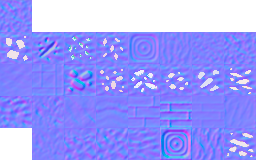
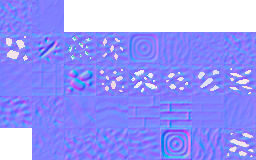
Added Acaster block (bedrock)

Changed region(s): [[0.125, 0.0, 0.25, 0.2188]]

diff --git a/Assets/Scripts/WorldGeneration/StructureGroup.cs b/Assets/Scripts/WorldGeneration/StructureGroup.cs
@@ -193,14 +193,12 @@ public static class StructureGroup
         greaterBonesFormation.Add(new StructSpawn(StructureCode.BigUpBone, 1, 0.03f, 0, -1, true, -10));
         greaterBonesFormation.Add(new StructSpawn(StructureCode.BigCrossBone, 1, 0.03f, 0, -1, true, -10));
 
-        /*
         greaterBonesFormation.Add(new StructSpawn(StructureCode.LittleBone1, 8, 0.4f, 10, -1, true, 0));
         greaterBonesFormation.Add(new StructSpawn(StructureCode.LittleBone2, 8, 0.4f, 10, -1, true, 0));
         greaterBonesFormation.Add(new StructSpawn(StructureCode.BigFossil1, 3, 0.3f, 12, -1, true, 0));
         greaterBonesFormation.Add(new StructSpawn(StructureCode.BigFossil2, 3, 0.3f, 12, -1, true, 0));
         greaterBonesFormation.Add(new StructSpawn(StructureCode.BigUpBone, 3, 0.3f, 14, -1, true, 0));
         greaterBonesFormation.Add(new StructSpawn(StructureCode.BigCrossBone, 3, 0.3f, 15, -1, true, 0));
-        */
     }
 }
 

diff --git a/Assets/Scripts/Items/Acasterblock_Item.cs b/Assets/Scripts/Items/Acasterblock_Item.cs
@@ -1,0 +1,25 @@
+using System.Collections;
+using System.Collections.Generic;
+
+public class Acasterblock_Item : Item, IPlaceable
+{
+	public ushort placeableBlockID {get; set;}
+
+	public Acasterblock_Item(){
+		this.SetName("Acaster Rock Block");
+		this.SetDescription("The rock guarding the deepest parts of the world");
+		this.SetID(ItemID.ACASTERBLOCK);
+		this.SetIconID(11, 0);
+		this.SetStackSize(50);
+		this.SetPrice(0);
+		this.SetPriceVar(0);
+		this.SetAspects(new Dictionary<ThaumicAspect, byte>(){{ThaumicAspect.Tutamen, 20}, {ThaumicAspect.Terra, 5}});
+		this.SetTags(new List<ItemTag>(){ItemTag.Placeable, ItemTag.Stone, ItemTag.Forbidden});
+		this.SetDurability(false);
+		this.placeableBlockID = (ushort)BlockID.ACASTER;
+	}
+
+	public override int Use(){
+		return this.placeableBlockID;
+	}
+}

diff --git a/Assets/Scripts/Blocks.cs b/Assets/Scripts/Blocks.cs
@@ -5,7 +5,7 @@ using UnityEngine;
 
 public abstract class Blocks
 {
-	public static readonly int blockCount = 35;
+	public static readonly int blockCount = 36;
 	public static readonly int pixelSize = 32;
 	public static readonly int atlasSizeX = 8;
 	public static readonly int atlasSizeY = 5;
@@ -112,6 +112,8 @@ public abstract class Blocks
 				return new Lava_Block();
 			case 34:
 				return new HellMarble_Block();
+			case 35:
+				return new Acaster_Block();
 
 			default:
 				return new Air_Block();
@@ -231,7 +233,7 @@ public abstract class Blocks
     		return 0;
 
     	if(this.flags != null){
-	    	if(this.flags.Contains(BlockFlags.IMMUNE))
+	    	if(this.flags.Contains(BlockFlags.IMMUNE) || this.flags.Contains(BlockFlags.UNBREAKABLE))
 	    		return 0;
     	}
 

diff --git a/Assets/Scripts/WorldGeneration/Burst/GenerateHellChunkJob.cs b/Assets/Scripts/WorldGeneration/Burst/GenerateHellChunkJob.cs
@@ -130,14 +130,14 @@ public struct GenerateHellChunkJob: IJob{
     }
 
     public void AddBedrockLayer(){
-        ushort bedrock = (ushort)BlockID.STONE; // Needs to set it to bedrock once block is added
+        ushort acaster = (ushort)BlockID.ACASTER; // Needs to set it to bedrock once block is added
         int index;
 
         for(int x=0; x < Chunk.chunkWidth; x++){
             for(int z=0; z < Chunk.chunkWidth; z++){
                 index = x*Chunk.chunkWidth*Chunk.chunkDepth+z;
 
-                blockData[index] = bedrock;
+                blockData[index] = acaster;
                 stateData[index] = 0;
                 hpData[index] = ushort.MaxValue;
             }

diff --git a/Assets/Scripts/Blocks/Acaster_Block.cs b/Assets/Scripts/Blocks/Acaster_Block.cs
@@ -1,0 +1,22 @@
+using System.Collections;
+using System.Collections.Generic;
+using UnityEngine;
+
+public class Acaster_Block : Blocks
+{
+	public Acaster_Block(){
+		this.name = "Acaster Rock";
+		this.solid = true;
+		this.transparent = 0;
+		this.invisible = false;
+		this.liquid = false;
+		this.affectLight = true;
+
+		this.tileTop = 33;
+		this.tileSide = 33;
+		this.tileBottom = 33;
+
+		this.maxHP = ushort.MaxValue;
+		this.flags = new HashSet<BlockFlags>(){BlockFlags.IMMUNE};
+	}
+}

diff --git a/Assets/Scripts/WorldGeneration/BiomeHandler.cs b/Assets/Scripts/WorldGeneration/BiomeHandler.cs
@@ -94,7 +94,7 @@ public class BiomeHandler
 			new List<StructureGroupID>(){});
 
 		Biome deepCliff = new Biome("Deep Cliff", BiomeCode.DEEP_CLIFF, BiomeType.OCEAN, ChunkDepthID.HELL,
-			(ushort)BlockID.STONE,
+			(ushort)BlockID.ACASTER,
 			new List<StructureGroupID>(){});
 
 		Biome hellHighlands= new Biome("Hell Highlands", BiomeCode.HELL_HIGHLANDS, BiomeType.PEAK, ChunkDepthID.HELL,

diff --git a/Assets/Scripts/Item.cs b/Assets/Scripts/Item.cs
@@ -109,6 +109,9 @@ public abstract class Item
 				return new Lavablock_Item();
 			case ItemID.HELLMARBLEBLOCK:
 				return new HellMarbleblock_Item();
+			case ItemID.ACASTERBLOCK:
+				return new Acasterblock_Item();
+
 			default:
 				return null;
 		}

diff --git a/Assets/Scripts/ItemID.cs b/Assets/Scripts/ItemID.cs
@@ -25,5 +25,6 @@ public enum ItemID : ushort {
     GRAVELBLOCK,
     MOONSTONEBLOCK,
     LAVABLOCK,
-    HELLMARBLEBLOCK
+    HELLMARBLEBLOCK,
+    ACASTERBLOCK
 }

diff --git a/Assets/Scripts/BlockID.cs b/Assets/Scripts/BlockID.cs
@@ -39,6 +39,7 @@ public enum BlockID : ushort
     MOONSTONE = 32,
     LAVA = 33,
     HELL_MARBLE = 34,
+    ACASTER = 35,
 
     /*
     Special

diff --git a/Assets/Scripts/Blocks/Util/BlockFlags.cs b/Assets/Scripts/Blocks/Util/BlockFlags.cs
@@ -1,4 +1,5 @@
 public enum BlockFlags : byte
 {
-	IMMUNE
+	IMMUNE,
+	UNBREAKABLE
 }
